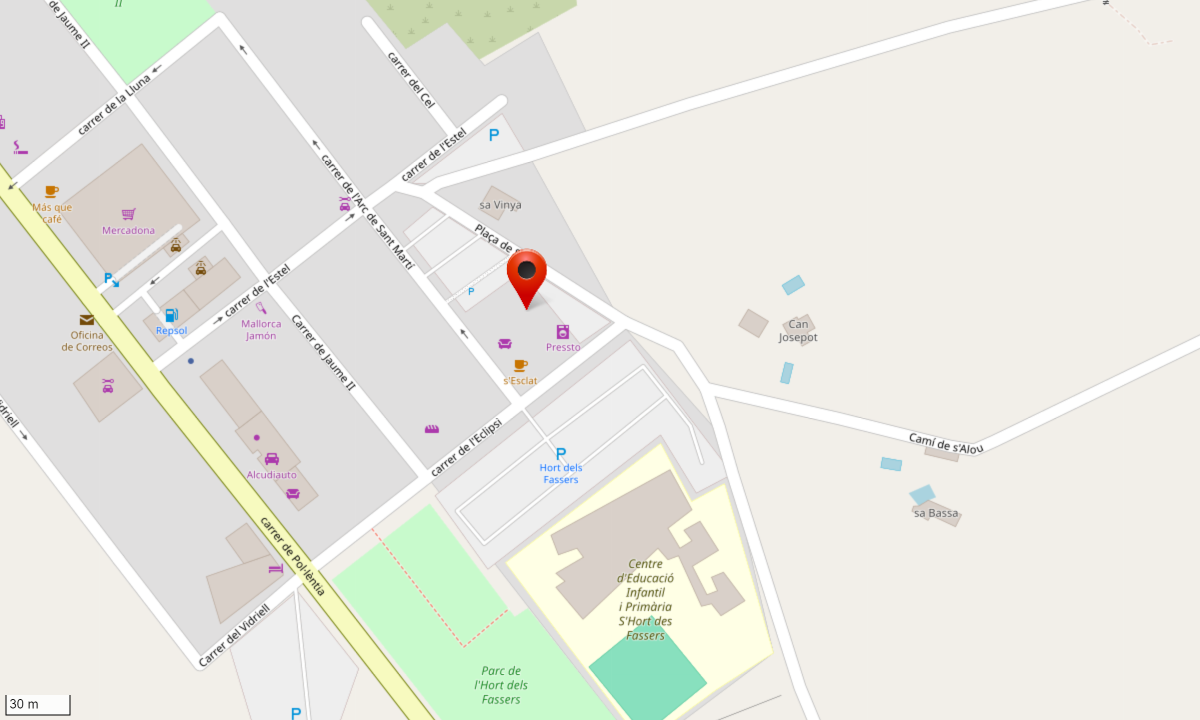
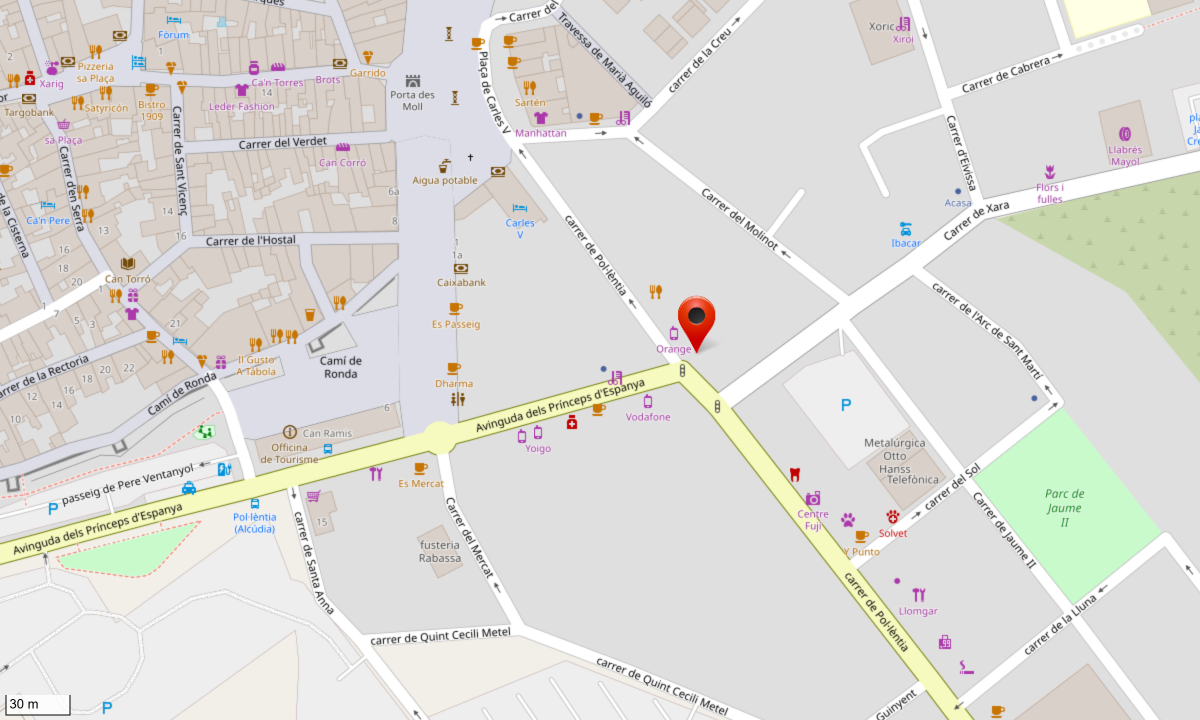
Fotos más pequeñas. Textos más claros. Email operativo.

diff --git a/pages/contacto.html b/pages/contacto.html
@@ -1,5 +1,6 @@
 <!DOCTYPE html>
 <html lang="es">
+
 <head>
     <meta charset="UTF-8">
     <meta name="viewport" content="width=device-width, initial-scale=1.0">
@@ -10,17 +11,19 @@
     <script src="https://cdn.tailwindcss.com"></script>
     <link rel="stylesheet" href="../css/style.css">
     <link rel="icon" href="../media/logo_blanco_icon.png" type="image/png">
-    <meta name="description" content="Psicóloga en Mallorca | Disponibilidad online y presencial, en Pollença y Palma, para adultos, adolescentes y niños. ¿Te acompaño?.">
+    <meta name="description"
+        content="Psicóloga en Mallorca | Disponibilidad online y presencial, en Pollença y Palma, para adultos, adolescentes y niños. ¿Te acompaño?.">
     <!-- Google tag (gtag.js) -->
     <script async src="https://www.googletagmanager.com/gtag/js?id=G-3ELE6MEKEE">
     </script>
     <script>
-    window.dataLayer = window.dataLayer || [];
-    function gtag(){dataLayer.push(arguments);}
-    gtag('js', new Date());
-    gtag('config', 'G-3ELE6MEKEE');
+        window.dataLayer = window.dataLayer || [];
+        function gtag() { dataLayer.push(arguments); }
+        gtag('js', new Date());
+        gtag('config', 'G-3ELE6MEKEE');
     </script>
 </head>
+
 <body class="bg-gray-50 text-gray-800">
 
     <!-- HEADER -->
@@ -29,39 +32,38 @@
     <!-- Hero Section -->
     <section class="relative h-30 md:h-60 flex items-center justify-center text-center px-4 overflow-hidden">
         <!-- Imagen de fondo con blur -->
-        <img src="../media/trigo.webp"
-             alt="fondo"
-             class="absolute inset-0 w-full h-full object-cover blur-[2px] scale-105" />
-      
+        <img src="../media/trigo.webp" alt="fondo"
+            class="absolute inset-0 w-full h-full object-cover blur-[2px] scale-105" />
+
         <!-- Capa de color -->
         <div class="absolute inset-0 bg-gradient-to-r from-[#a5cfb8a1] to-[#f89f88c2] opacity-70"></div>
-      
+
         <!-- Contenido -->
         <div class="relative z-10 text-white">
-          <h1 class="text-4xl md:text-7xl font-light tracking-wide mb-8 mt-12 pt-8 encabezado">Contacto</h1>
+            <h1 class="text-4xl md:text-7xl font-light tracking-wide mb-8 mt-12 pt-8 encabezado">Contacto</h1>
         </div>
     </section>
-      
+
     <!-- Dónde puedes encontrarme? -->
     <section>
         <h1 class="banner">¿Dónde puedes encontrarme?</h1>
         <div class="contenedorCuadro grid-cols-1 md:grid-cols-2 lg:grid-cols-4">
 
             <a href="https://maps.app.goo.gl/SxbDcyETjGfxBhGK9" target="_blank" class="cuadro h-[500px]">
-                <img src="../media/mapaPollenca.png" alt="Pollença" class="w-full h-full object-cover rounded-lg">
+                <img src="../media/mapaPollenca.webp" alt="Pollença" class="w-full h-full object-cover rounded-lg">
                 <button class="cuadroBoton">Pollença</button>
             </a>
-            
+
             <a href="https://maps.app.goo.gl/6fJPRnWkkoYHPQr27" target="_blank" class="cuadro h-[500px]">
-                <img src="../media/mapaPalma.png" alt="Palma" class="w-full h-full object-cover rounded-lg">
+                <img src="../media/mapaPalma.webp" alt="Palma" class="w-full h-full object-cover rounded-lg">
                 <button class="cuadroBoton">Palma</button>
             </a>
 
-            <a href="https://maps.app.goo.gl/NX3rMpcKB3aXWLjp9" target="_blank" class="cuadro h-[500px]">
-                <img src="../media/mapaAlcudia.png" alt="Alcudia" class="w-full h-full object-cover rounded-lg">
+            <a href="https://maps.app.goo.gl/xo1tMEKhZz7sMuZx7" target="_blank" class="cuadro h-[500px]">
+                <img src="../media/mapaAlcudia.webp" alt="Alcudia" class="w-full h-full object-cover rounded-lg">
                 <button class="cuadroBoton">Alcudia</button>
             </a>
-            
+
             <div class="cuadro h-[500px]">
                 <img src="../media/mapaOnline.webp" alt="Online" class="w-full h-full object-cover rounded-lg">
                 <button class="cuadroBoton">Online</button>
@@ -73,45 +75,41 @@
     <section>
         <h1 class="banner">¿Hablamos?</h1>
         <div class="contenedorCuadro grid-cols-1 md:grid-cols-2 lg:grid-cols-4">
-            <a href="whatsapp://send?phone=34681877615&text=Hola%20Sara,%20me%20gustaría%20hablar%20contigo.%20¿Podrías%20ayudarme?" class="cuadro">
+            <a href="whatsapp://send?phone=34681877615&text=Hola%20Sara,%20me%20gustaría%20hablar%20contigo.%20¿Podrías%20ayudarme?"
+                class="cuadro">
 
-                <svg xmlns="http://www.w3.org/2000/svg" class="icono w-20 h-20" fill="currentColor" viewBox="0 0 448 512" strokeWidth={1.5} stroke="currentColor" className="size-6">
-                    <path strokeLinecap="round" stroke-width="1.25" strokeLinejoin="round"       d="M380.9 97.1C339 55.1 283.2 32 223.9 32c-122.4 0-222 99.6-222 222 0 39.1 10.2 77.3 29.6 111L0 480l117.7-30.9c32.4 17.7 68.9 27 106.1 27h.1c122.3 0 224.1-99.6 224.1-222 0-59.3-25.2-115-67.1-157zm-157 341.6c-33.2 0-65.7-8.9-94-25.7l-6.7-4-69.8 18.3L72 359.2l-4.4-7c-18.5-29.4-28.2-63.3-28.2-98.2 0-101.7 82.8-184.5 184.6-184.5 49.3 0 95.6 19.2 130.4 54.1 34.8 34.9 56.2 81.2 56.1 130.5 0 101.8-84.9 184.6-186.6 184.6zm101.2-138.2c-5.5-2.8-32.8-16.2-37.9-18-5.1-1.9-8.8-2.8-12.5 2.8-3.7 5.6-14.3 18-17.6 21.8-3.2 3.7-6.5 4.2-12 1.4-32.6-16.3-54-29.1-75.5-66-5.7-9.8 5.7-9.1 16.3-30.3 1.8-3.7 .9-6.9-.5-9.7-1.4-2.8-12.5-30.1-17.1-41.2-4.5-10.8-9.1-9.3-12.5-9.5-3.2-.2-6.9-.2-10.6-.2-3.7 0-9.7 1.4-14.8 6.9-5.1 5.6-19.4 19-19.4 46.3 0 27.3 19.9 53.7 22.6 57.4 2.8 3.7 39.1 59.7 94.8 83.8 35.2 15.2 49 16.5 66.6 13.9 10.7-1.6 32.8-13.4 37.4-26.4 4.6-13 4.6-24.1 3.2-26.4-1.3-2.5-5-3.9-10.5-6.6z" />
+                <svg xmlns="http://www.w3.org/2000/svg" class="icono w-20 h-20" fill="currentColor"
+                    viewBox="0 0 448 512" strokeWidth={1.5} stroke="currentColor" className="size-6">
+                    <path strokeLinecap="round" stroke-width="1.25" strokeLinejoin="round"
+                        d="M380.9 97.1C339 55.1 283.2 32 223.9 32c-122.4 0-222 99.6-222 222 0 39.1 10.2 77.3 29.6 111L0 480l117.7-30.9c32.4 17.7 68.9 27 106.1 27h.1c122.3 0 224.1-99.6 224.1-222 0-59.3-25.2-115-67.1-157zm-157 341.6c-33.2 0-65.7-8.9-94-25.7l-6.7-4-69.8 18.3L72 359.2l-4.4-7c-18.5-29.4-28.2-63.3-28.2-98.2 0-101.7 82.8-184.5 184.6-184.5 49.3 0 95.6 19.2 130.4 54.1 34.8 34.9 56.2 81.2 56.1 130.5 0 101.8-84.9 184.6-186.6 184.6zm101.2-138.2c-5.5-2.8-32.8-16.2-37.9-18-5.1-1.9-8.8-2.8-12.5 2.8-3.7 5.6-14.3 18-17.6 21.8-3.2 3.7-6.5 4.2-12 1.4-32.6-16.3-54-29.1-75.5-66-5.7-9.8 5.7-9.1 16.3-30.3 1.8-3.7 .9-6.9-.5-9.7-1.4-2.8-12.5-30.1-17.1-41.2-4.5-10.8-9.1-9.3-12.5-9.5-3.2-.2-6.9-.2-10.6-.2-3.7 0-9.7 1.4-14.8 6.9-5.1 5.6-19.4 19-19.4 46.3 0 27.3 19.9 53.7 22.6 57.4 2.8 3.7 39.1 59.7 94.8 83.8 35.2 15.2 49 16.5 66.6 13.9 10.7-1.6 32.8-13.4 37.4-26.4 4.6-13 4.6-24.1 3.2-26.4-1.3-2.5-5-3.9-10.5-6.6z" />
                 </svg>
                 <p class="mb-2 font-bold text-xl text-[#A45152]">681 877 615</p>
                 <h2 class="cuadroTexto">Puedes escribirme</h2>
             </a>
-            
+
             <a href="tel:+34681877615" class="cuadro">
-                <svg xmlns="http://www.w3.org/2000/svg" class="icono w-20 h-20" fill="none" viewBox="0 0 24 24" strokeWidth={1.5} stroke="currentColor" className="size-6">
-                    <path strokeLinecap="round" stroke-width="1.8" strokeLinejoin="round" d="M2.25 6.75c0 8.284 6.716 15 15 15h2.25a2.25 2.25 0 0 0 2.25-2.25v-1.372c0-.516-.351-.966-.852-1.091l-4.423-1.106c-.44-.11-.902.055-1.173.417l-.97 1.293c-.282.376-.769.542-1.21.38a12.035 12.035 0 0 1-7.143-7.143c-.162-.441.004-.928.38-1.21l1.293-.97c.363-.271.527-.734.417-1.173L6.963 3.102a1.125 1.125 0 0 0-1.091-.852H4.5A2.25 2.25 0 0 0 2.25 4.5v2.25Z" />
+                <svg xmlns="http://www.w3.org/2000/svg" class="icono w-20 h-20" fill="none" viewBox="0 0 24 24"
+                    strokeWidth={1.5} stroke="currentColor" className="size-6">
+                    <path strokeLinecap="round" stroke-width="1.8" strokeLinejoin="round"
+                        d="M2.25 6.75c0 8.284 6.716 15 15 15h2.25a2.25 2.25 0 0 0 2.25-2.25v-1.372c0-.516-.351-.966-.852-1.091l-4.423-1.106c-.44-.11-.902.055-1.173.417l-.97 1.293c-.282.376-.769.542-1.21.38a12.035 12.035 0 0 1-7.143-7.143c-.162-.441.004-.928.38-1.21l1.293-.97c.363-.271.527-.734.417-1.173L6.963 3.102a1.125 1.125 0 0 0-1.091-.852H4.5A2.25 2.25 0 0 0 2.25 4.5v2.25Z" />
                 </svg>
                 <p class="mb-2 font-bold text-xl text-[#A45152]">681 877 615</p>
                 <h2 class="cuadroTexto">Puedes llamarme</h2>
             </a>
-            
-            <!-- 
-                <a href="mailto:sara@psicodiaz.com?subject=Información%20sobre%20terapia&body=Hola%20Sara,%20soy%20__________.%0AMe%20gustaría%20recibir%20información%20sobre%20__________.%0A%0A¿Podrías%20ayudarme?" class="cuadro">
-                    <svg xmlns="http://www.w3.org/2000/svg" class="icono w-20 h-20" fill="none" viewBox="0 0 24 24" strokeWidth={1.5} stroke="currentColor" className="size-6">
-                        <path strokeLinecap="round" stroke-width="2" strokeLinejoin="round" d="M21.75 6.75v10.5a2.25 2.25 0 0 1-2.25 2.25h-15a2.25 2.25 0 0 1-2.25-2.25V6.75m19.5 0A2.25 2.25 0 0 0 19.5 4.5h-15a2.25 2.25 0 0 0-2.25 2.25m19.5 0v.243a2.25 2.25 0 0 1-1.07 1.916l-7.5 4.615a2.25 2.25 0 0 1-2.36 0L3.32 8.91a2.25 2.25 0 0 1-1.07-1.916V6.75" />
-                    </svg>
-                    <p class="mb-2 font-bold text-xl text-[#A45152]">sara@psicodiaz.com</p>
-                    <h2 class="cuadroTexto">Puedes enviarme un mail</h2>
-                </a>
-            
-            -->
 
-            <a class="cuadro">
+            <a href="mailto:sara@psicodiaz.com?subject=Información%20sobre%20terapia&body=Hola%20Sara,%20soy%20__________.%0AMe%20gustaría%20recibir%20información%20sobre%20__________.%0A%0A¿Podrías%20ayudarme?" class="cuadro">
                 <svg xmlns="http://www.w3.org/2000/svg" class="icono w-20 h-20" fill="none" viewBox="0 0 24 24" strokeWidth={1.5} stroke="currentColor" className="size-6">
                     <path strokeLinecap="round" stroke-width="2" strokeLinejoin="round" d="M21.75 6.75v10.5a2.25 2.25 0 0 1-2.25 2.25h-15a2.25 2.25 0 0 1-2.25-2.25V6.75m19.5 0A2.25 2.25 0 0 0 19.5 4.5h-15a2.25 2.25 0 0 0-2.25 2.25m19.5 0v.243a2.25 2.25 0 0 1-1.07 1.916l-7.5 4.615a2.25 2.25 0 0 1-2.36 0L3.32 8.91a2.25 2.25 0 0 1-1.07-1.916V6.75" />
                 </svg>
-                <p class="mb-2 font-bold text-xl text-[#A45152]">Próximamente</p>
+                <p class="mb-2 font-bold text-xl text-[#A45152]">sara@psicodiaz.com</p>
                 <h2 class="cuadroTexto">Puedes enviarme un mail</h2>
             </a>
-            
+
             <a href="https://www.instagram.com/sara.psicodiaz?igsh=MTNjaG8zZnU4ZTJ4eA==" class="cuadro">
-                <svg xmlns="http://www.w3.org/2000/svg" class="icono w-20 h-20" fill="currentColor" viewBox="0 0 448 512" strokeWidth={1} stroke="currentColor" className="size-6">
-                    <path strokeLinecap="round" stroke-width="1.25" strokeLinejoin="round" d="M224.1 141c-63.6 0-114.9 51.3-114.9 114.9s51.3 114.9 114.9 114.9S339 319.5 339 255.9 287.7 141 224.1 141zm0 189.6c-41.1 0-74.7-33.5-74.7-74.7s33.5-74.7 74.7-74.7 74.7 33.5 74.7 74.7-33.6 74.7-74.7 74.7zm146.4-194.3c0 14.9-12 26.8-26.8 26.8-14.9 0-26.8-12-26.8-26.8s12-26.8 26.8-26.8 26.8 12 26.8 26.8zm76.1 27.2c-1.7-35.9-9.9-67.7-36.2-93.9-26.2-26.2-58-34.4-93.9-36.2-37-2.1-147.9-2.1-184.9 0-35.8 1.7-67.6 9.9-93.9 36.1s-34.4 58-36.2 93.9c-2.1 37-2.1 147.9 0 184.9 1.7 35.9 9.9 67.7 36.2 93.9s58 34.4 93.9 36.2c37 2.1 147.9 2.1 184.9 0 35.9-1.7 67.7-9.9 93.9-36.2 26.2-26.2 34.4-58 36.2-93.9 2.1-37 2.1-147.8 0-184.8zM398.8 388c-7.8 19.6-22.9 34.7-42.6 42.6-29.5 11.7-99.5 9-132.1 9s-102.7 2.6-132.1-9c-19.6-7.8-34.7-22.9-42.6-42.6-11.7-29.5-9-99.5-9-132.1s-2.6-102.7 9-132.1c7.8-19.6 22.9-34.7 42.6-42.6 29.5-11.7 99.5-9 132.1-9s102.7-2.6 132.1 9c19.6 7.8 34.7 22.9 42.6 42.6 11.7 29.5 9 99.5 9 132.1s2.7 102.7-9 132.1z" />
+                <svg xmlns="http://www.w3.org/2000/svg" class="icono w-20 h-20" fill="currentColor"
+                    viewBox="0 0 448 512" strokeWidth={1} stroke="currentColor" className="size-6">
+                    <path strokeLinecap="round" stroke-width="1.25" strokeLinejoin="round"
+                        d="M224.1 141c-63.6 0-114.9 51.3-114.9 114.9s51.3 114.9 114.9 114.9S339 319.5 339 255.9 287.7 141 224.1 141zm0 189.6c-41.1 0-74.7-33.5-74.7-74.7s33.5-74.7 74.7-74.7 74.7 33.5 74.7 74.7-33.6 74.7-74.7 74.7zm146.4-194.3c0 14.9-12 26.8-26.8 26.8-14.9 0-26.8-12-26.8-26.8s12-26.8 26.8-26.8 26.8 12 26.8 26.8zm76.1 27.2c-1.7-35.9-9.9-67.7-36.2-93.9-26.2-26.2-58-34.4-93.9-36.2-37-2.1-147.9-2.1-184.9 0-35.8 1.7-67.6 9.9-93.9 36.1s-34.4 58-36.2 93.9c-2.1 37-2.1 147.9 0 184.9 1.7 35.9 9.9 67.7 36.2 93.9s58 34.4 93.9 36.2c37 2.1 147.9 2.1 184.9 0 35.9-1.7 67.7-9.9 93.9-36.2 26.2-26.2 34.4-58 36.2-93.9 2.1-37 2.1-147.8 0-184.8zM398.8 388c-7.8 19.6-22.9 34.7-42.6 42.6-29.5 11.7-99.5 9-132.1 9s-102.7 2.6-132.1-9c-19.6-7.8-34.7-22.9-42.6-42.6-11.7-29.5-9-99.5-9-132.1s-2.6-102.7 9-132.1c7.8-19.6 22.9-34.7 42.6-42.6 29.5-11.7 99.5-9 132.1-9s102.7-2.6 132.1 9c19.6 7.8 34.7 22.9 42.6 42.6 11.7 29.5 9 99.5 9 132.1s2.7 102.7-9 132.1z" />
                 </svg>
                 <p class="mb-2 font-bold text-xl text-[#A45152]">@sara.psicodiaz</p>
                 <h2 class="cuadroTexto">Encuéntrame en Instagram</h2>
@@ -124,7 +122,8 @@
         <h1 class="banner">Pide tu cita</h1>
         <div class="contenedorCuadro">
             <div id="formulario" class="cuadro h-[700px] w-full lg:w-2/5 mx-auto my-auto">
-                <iframe width="100%" height="100%" src="https://www.docfav.com/portal-iframe/cf73fce2-255b-4253-ba19-cc0e2120c2aa/"></iframe>
+                <iframe width="100%" height="100%"
+                    src="https://www.docfav.com/portal-iframe/cf73fce2-255b-4253-ba19-cc0e2120c2aa/"></iframe>
             </div>
         </div>
     </section>
@@ -133,39 +132,41 @@
     <section>
         <h1 class="banner">¿Tienes seguro privado de salud?</h1>
         <div class="contenedorCuadro">
-            <div class="cuadro text-left w-full lg:w-2/5 mx-auto my-auto p-8 texto">
+            <div class="cuadro text-left w-5/5 lg:w-3/5 mx-auto my-auto p-8 ">
                 <!-- Sección: ¿Qué es una póliza de reembolso? -->
                 <h3 class="pregunta">¿Qué es una <strong>póliza de reembolso</strong>?</h3>
-                <p>Es un tipo de <strong>seguro de salud privado</strong> que te permite elegir libremente a qué profesional ir (aunque no esté en el cuadro médico de la compañía).</p>
+                <p class="texto">Es un tipo de <strong>seguro de salud privado</strong> que te permite elegir libremente
+                    a qué profesional ir (aunque no esté en el cuadro médico de la compañía).</p>
 
 
                 <!-- Sección: ¿Cómo funciona? -->
                 <h3 class="pregunta mt-8">¿Cómo funciona?</h3>
                 <ol class="texto list-decimal pl-6 mt-4">
-                <li>Pagas la sesión.</li>
-                <li>Me pides la <strong>factura</strong> y se la envías a tu <strong>seguro</strong>.</li>
-                <li>El <strong>seguro</strong> te devuelve un porcentaje del coste (a veces hasta el <strong>80%</strong>).</li>
+                    <li>Pagas la sesión.</li>
+                    <li>Me pides la <strong>factura</strong> y se la envías a tu <strong>seguro</strong>.</li>
+                    <li>El <strong>seguro</strong> te devuelve un porcentaje del coste (a veces hasta el
+                        <strong>80%</strong>).</li>
                 </ol>
 
 
                 <!-- Sección: Tip útil -->
-                <p class="mt-10">🎯 Revisa si tu <strong>seguro</strong> tiene esta opción y qué porcentaje cubre.  
-                Algunas aseguradoras lo llaman <strong>“reembolso de gastos médicos”</strong>.</p>
+                <p class="mt-6 texto">Revisa si tu <strong>seguro</strong> tiene esta opción y qué porcentaje cubre.
+                    Algunas aseguradoras lo llaman <strong>“reembolso de gastos médicos”</strong>.</p>
 
 
                 <!-- Sección: Escríbeme -->
-                <p class="mt-6">📌 ¿Quieres saber si puedes usar tu <strong>póliza</strong> conmigo?<br>
-                ¡Escríbeme y lo vemos juntxs!</p>
+                <p class="mt-6 texto">¿Quieres saber si puedes usar tu <strong>póliza</strong> conmigo?<br>
+                    ¡Escríbeme y lo vemos juntxs!</p>
 
             </div>
-            
         </div>
     </section>
 
 
-    
+
     <!-- FOOTER -->
     <div data-include="../pages/footer.html"></div>
 
 </body>
+
 </html>

diff --git a/index.html b/index.html
@@ -30,7 +30,7 @@
     <!-- Hero Principal -->
     <!-- Hero Principal -->
     <section class="relative h-screen flex items-center justify-center text-center px-4 bg-cover bg-center">
-      <img src="../media/playita.jpg" 
+      <img src="../media/playita.webp" 
       alt="Fondo de paz" 
       class="absolute inset-0 w-full h-full object-cover blur-[2px]">
   
@@ -53,21 +53,25 @@
       <div class="w-12/12 md:w-5/5 xl:w-4/5 mx-auto px-4 py-12 grid grid-cols-1 md:grid-cols-2 items-center md:gap-12">
         <img src="../media/sara_marco.webp" alt="Sara Díaz Espejo" class=" max-w-full h-auto md:col-span-1 lg:col-span-1 p-10">
         <div class="text-base sm:text-sm md:text-base leading-relaxed md:col-span-1 text-gray-700 p-2 rounded-lg">
-          <h2 class="text-3xl md:text-4xl font-bold mb-2 text-gray-800 encabezado">¡Hola!
-          <h2 class="text-3xl md:text-4xl font-bold mb-6 text-gray-800 encabezado">Soy Sara, psicóloga general sanitaria 
+          <h2 class="text-3xl md:text-4xl font-bold mb-2 text-gray-700 encabezado">¡Hola!
+          <h2 class="text-3xl md:text-4xl font-bold mb-6 text-gray-700 encabezado">Soy Sara, psicóloga general sanitaria 
           </h2>
-          <p class="mb-4 text-lg text-justify">
+          <p class="mb-4 text-lg text-justify text-gray-600">
             Mi trabajo es ayudarte a comprenderte mejor, sin juicios ni prisas. A través de un enfoque terapéutico integrador, combino las mejores herramientas y técnicas adaptadas a tu situación. Juntos/as trabajaremos para lograr que encuentres un camino hacia el bienestar emocional, con un proceso flexible, personalizable y a tu ritmo.
           </p>
-          <p class="mb-2 text-lg text-justify">
+          <p class="mb-2 text-lg text-justify text-gray-600">
             Puedes encontrarme en:
           </p>
-          <ul class="list-disc pl-6 text-lg text-justify">
-            <li class="mb-2"><strong>Pollença</strong></li>
-            <li class="mb-2"><strong>Palma</strong></li>
-            <li class="mb-2"><strong>Alcudia</strong></li>
-            <li class="mb-2"><strong>Online</strong></li>
+          <ul class="list-disc pl-6 text-lg text-justify ">
+            <li class="mb-2 text-gray-600"><strong>Alcudia</strong></li>
+            <li class="mb-2 text-gray-600"><strong>Pollença</strong></li>
+            <li class="mb-2 text-gray-600"><strong>Palma</strong></li>
+            <li class="mb-2 text-gray-600"><strong>Online</strong></li>
           </ul>
+          <br>
+          <a href="/contacto" class= "bg-[#A45152] font-medium text-white px-4 py-2 rounded hover:bg-[#8E3E44] transition-all duration-300">
+            Más información
+          </a>
         </div>
 
       </div>
@@ -88,7 +92,7 @@
         </div>
         
         <div class="p-10">
-          <img src="../media/inicio2.png" alt="Despacho" class="max-w-full h-auto md:col-span-1 lg:col-span-1 rounded-lg object-cover shadow-lg">
+          <img src="../media/inicio2.webp" alt="Despacho" class="max-w-full h-auto md:col-span-1 lg:col-span-1 rounded-lg object-cover shadow-lg">
         </div>
       </div>
     </section>
@@ -153,16 +157,15 @@
 
 
               <!-- Sección: Tip útil -->
-              <p class="mt-10 texto">🎯 Revisa si tu <strong>seguro</strong> tiene esta opción y qué porcentaje cubre.  
+              <p class="mt-6 texto">Revisa si tu <strong>seguro</strong> tiene esta opción y qué porcentaje cubre.  
               Algunas aseguradoras lo llaman <strong>“reembolso de gastos médicos”</strong>.</p>
 
 
               <!-- Sección: Escríbeme -->
-              <p class="mt-6 texto">📌 ¿Quieres saber si puedes usar tu <strong>póliza</strong> conmigo?<br>
+              <p class="mt-6 texto">¿Quieres saber si puedes usar tu <strong>póliza</strong> conmigo?<br>
               ¡Escríbeme y lo vemos juntxs!</p>
 
           </div>
-          
       </div>
   </section>
   

diff --git a/css/style.css b/css/style.css
@@ -3,7 +3,7 @@
 
 }
 
-p {
+p, li {
     font-family:'Lucida Sans', 'Lucida Sans Regular', 'Lucida Grande', 'Lucida Sans Unicode', Geneva, Verdana, sans-serif;
     color: rgb(50, 50, 50);
 }
